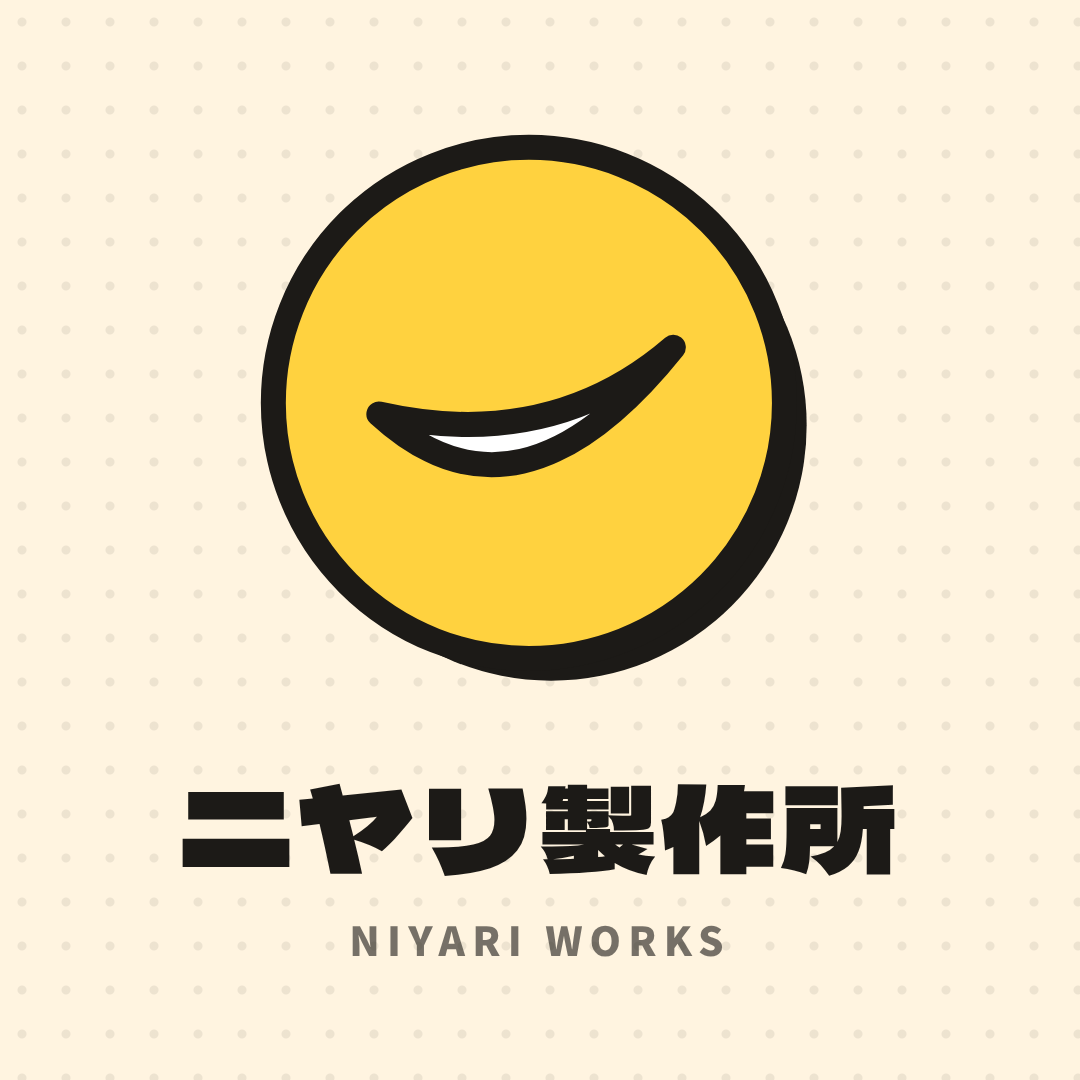
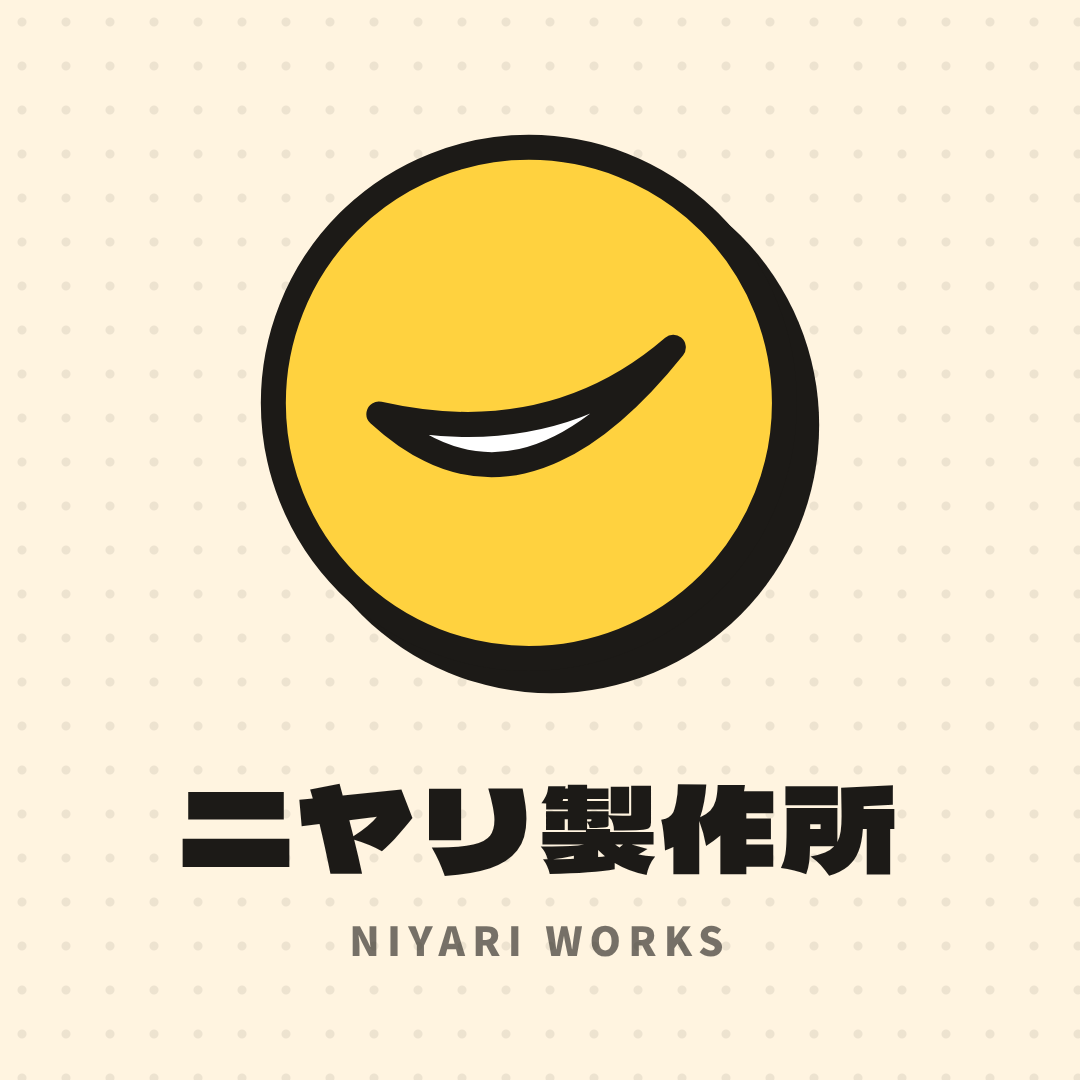
design: recolor WATTO tiles, add PATTO rough and brand sheet visual
Claude-Session: https://claude.ai/code/session_01H41cTqMxdqRgXVNK8y2DkT

diff --git a/design/brand/sheet-visual.html b/design/brand/sheet-visual.html
@@ -1,0 +1,194 @@
+<!doctype html>
+<html lang="ja">
+<head>
+<meta charset="utf-8">
+<title>WATTO ブランドシート用の見本（ラフ）</title>
+<!--
+  ブランドシート（05）に載せる見本 1 枚。design/brand/render.mjs で sheet-visual.png（幅 1080）にする。
+  - スマホで縦に流し見する前提で幅 540（2 倍で撮る）。いちばん小さい文字も 15px 以上にする
+  - マークの定義は icon-roughs.html の m-watto と同じ。直すときは両方そろえる
+  - 決まり（design/brand/review.md §1.2）：作り手は円・黄＋墨。トマトは SUKIMA だけ。プロフィール画像は影なし・文字なし。
+    X のヘッダーでは左下にプロフィール画像が重なるので、作り手のマークは右下に置く
+-->
+<link rel="preconnect" href="https://fonts.googleapis.com">
+<link rel="preconnect" href="https://fonts.gstatic.com" crossorigin>
+<link href="https://fonts.googleapis.com/css2?family=Dela+Gothic+One&family=Noto+Sans+JP:wght@700;900&display=block" rel="stylesheet">
+<style>
+:root {
+  --bg: #fff4e0; --ink: #1c1a17; --white: #ffffff; --muted: #5d564c;
+  --accent: #ff5b3a; --yellow: #ffd23f; --blue: #4a74f5; --pink: #ff9cc2; --teal: #2bb3a3; --purple: #9b7bf0;
+  --font-body: 'Noto Sans JP', sans-serif;
+  --font-pop: 'Dela Gothic One', 'Noto Sans JP', sans-serif;
+}
+* { box-sizing: border-box; }
+body { margin: 0; background: #ddd; font-family: var(--font-body); color: var(--ink); }
+svg { display: block; }
+.dots { background-color: var(--bg);
+  background-image: radial-gradient(circle, rgba(28,26,23,0.08) 1.5px, transparent 2px); background-size: 16px 16px; }
+
+#sheet { width: 540px; padding: 28px 24px 32px; }
+.title { font-weight: 900; font-size: 15px; letter-spacing: 0.08em; color: var(--muted); margin: 0 0 6px; }
+section { margin-top: 26px; }
+h2 { font-weight: 900; font-size: 20px; margin: 0 0 12px; display: flex; align-items: center; gap: 8px; }
+h2 .n { font-family: var(--font-pop); font-size: 15px; width: 28px; height: 28px; border-radius: 50%;
+  background: var(--ink); color: var(--yellow); display: inline-flex; align-items: center; justify-content: center; }
+.note { font-weight: 700; font-size: 15px; color: var(--muted); margin: 8px 0 0; line-height: 1.5; }
+.panel { background: var(--white); border: 2.5px solid var(--ink); border-radius: 16px; box-shadow: 4px 4px 0 var(--ink); }
+
+/* 1. マーク */
+.hero { display: flex; flex-direction: column; align-items: center; gap: 14px; padding: 8px 0 4px; }
+.hero svg { width: 220px; height: 220px; }
+.hero .name { font-family: var(--font-pop); font-size: 56px; line-height: 1; letter-spacing: 0.04em; }
+.hero .sub { font-weight: 900; font-size: 18px; letter-spacing: 0.2em; color: var(--muted); margin-top: -4px; }
+
+/* 2. 色・書体 */
+.swatches { display: grid; grid-template-columns: repeat(3, 1fr); gap: 10px; }
+.sw { border: 2.5px solid var(--ink); border-radius: 12px; overflow: hidden; background: var(--white); }
+.sw .chip { height: 56px; border-bottom: 2.5px solid var(--ink); }
+.sw .t { padding: 6px 8px 8px; font-weight: 900; font-size: 16px; line-height: 1.3; }
+.sw .t small { display: block; font-weight: 700; font-size: 15px; color: var(--muted); }
+.sub-row { display: grid; grid-template-columns: 1.6fr 1fr; gap: 10px; margin-top: 10px; }
+.accents { display: flex; gap: 6px; padding: 10px; }
+.accents span { flex: 1; height: 36px; border: 2.5px solid var(--ink); border-radius: 8px; }
+.ng { position: relative; }
+.ng .chip { background: var(--accent); }
+.ng .badge { position: absolute; top: 12px; left: 50%; transform: translateX(-50%); white-space: nowrap;
+  background: var(--white); border: 2.5px solid var(--ink); border-radius: 999px; padding: 2px 10px; font-weight: 900; font-size: 15px; }
+.fonts { margin-top: 12px; padding: 14px 16px; display: grid; gap: 12px; }
+.font-row { display: flex; align-items: baseline; justify-content: space-between; gap: 12px; }
+.font-row .s1 { font-family: var(--font-pop); font-size: 40px; line-height: 1; letter-spacing: 0.04em; }
+.font-row .s2 { font-weight: 900; font-size: 26px; letter-spacing: 0.18em; line-height: 1.2; }
+.font-row .l { font-weight: 700; font-size: 15px; color: var(--muted); text-align: right; line-height: 1.35; }
+
+/* 3. SUKIMA と並べる（動画の締めのカードの想定） */
+.endcard { border: 2.5px solid var(--ink); border-radius: 16px; padding: 30px 16px 22px;
+  display: flex; flex-direction: column; align-items: center; gap: 26px; }
+.logo { display: inline-block; font-family: var(--font-pop); font-size: 50px; line-height: 1; letter-spacing: 0.06em;
+  color: #fff; background: var(--accent); padding: 12px 22px 16px; border: 4px solid var(--ink); border-radius: 22px;
+  transform: rotate(-3deg); box-shadow: 6px 6px 0 var(--ink); -webkit-text-stroke: 2.5px var(--ink); paint-order: stroke fill; white-space: nowrap; }
+.logo .slit { display: inline-block; width: 13px; height: 1.6em; margin: -0.4em 4px -0.4em 5px; vertical-align: middle;
+  background: var(--bg); border-left: 3.5px solid var(--ink); border-right: 3.5px solid var(--ink); transform: rotate(14deg); }
+.by { display: flex; align-items: center; gap: 10px; }
+.by .k { font-weight: 900; font-size: 16px; color: var(--muted); }
+.by svg { width: 48px; height: 48px; }
+.by .nm { font-family: var(--font-pop); font-size: 26px; letter-spacing: 0.04em; }
+
+/* 4. プロフィール画像 */
+.avatars { display: grid; grid-template-columns: 1fr 1fr; gap: 10px; }
+.av { border-radius: 14px; padding: 14px 10px; display: flex; align-items: center; justify-content: center; gap: 10px; min-width: 0; border: 2.5px solid var(--ink); }
+.av.light { background: var(--white); }
+.av.dark { background: #000; }
+.av .c { border-radius: 50%; overflow: hidden; flex: none; }
+.av .c svg { width: 100%; height: 100%; }
+.av-labels { display: grid; grid-template-columns: 1fr 1fr; gap: 10px; margin-top: 6px; text-align: center; font-weight: 700; font-size: 15px; color: var(--muted); }
+
+/* 5. X のヘッダー（1500×500 を 492×164 に縮小） */
+.xprof { border: 2.5px solid var(--ink); border-radius: 16px; overflow: hidden; background: var(--white); }
+.header { width: 100%; aspect-ratio: 3 / 1; position: relative; overflow: hidden; border-bottom: 2px solid #ddd; }
+.header .center { position: absolute; left: 50%; top: 44%; transform: translate(-50%, -50%);
+  display: flex; flex-direction: column; align-items: center; gap: 12px; }
+.header .logo { font-size: 30px; padding: 7px 13px 9px; border-width: 3px; border-radius: 14px; box-shadow: 4px 4px 0 var(--ink); -webkit-text-stroke: 1.6px var(--ink); }
+.header .logo .slit { width: 8px; border-left-width: 2.5px; border-right-width: 2.5px; margin: -0.4em 3px -0.4em 3px; }
+.header .copy { font-weight: 900; font-size: 15px; white-space: nowrap; }
+.header .corner { position: absolute; right: 12px; bottom: 10px; display: flex; align-items: center; gap: 6px; }
+.header .corner svg { width: 30px; height: 30px; }
+.header .corner span { font-family: var(--font-pop); font-size: 15px; letter-spacing: 0.04em; }
+.xbody { position: relative; height: 92px; padding: 0 16px; }
+.xbody .pfp { position: absolute; left: 16px; top: -46px; width: 96px; height: 96px; border-radius: 50%; border: 4px solid var(--white); overflow: hidden; background: var(--white); }
+.xbody .pfp svg { width: 100%; height: 100%; }
+.xbody .who { position: absolute; left: 124px; top: 12px; line-height: 1.35; }
+.xbody .who b { font-size: 18px; font-weight: 900; }
+.xbody .who span { display: block; font-size: 15px; font-weight: 700; color: var(--muted); }
+</style>
+</head>
+<body>
+
+<svg width="0" height="0" style="position:absolute">
+  <defs>
+    <!-- icon-roughs.html の m-watto と同じ（札はトマトではなく差し色 4 色） -->
+    <g id="m-watto">
+      <circle cx="100" cy="100" r="92" fill="var(--yellow)" stroke="var(--ink)" stroke-width="9"/>
+      <g stroke="var(--ink)" stroke-width="9" stroke-linecap="round">
+        <line x1="134" y1="66" x2="152" y2="48"/><line x1="134" y1="134" x2="152" y2="152"/>
+        <line x1="66" y1="134" x2="48" y2="152"/><line x1="66" y1="66" x2="48" y2="48"/>
+      </g>
+      <circle cx="100" cy="100" r="30" fill="var(--white)" stroke="var(--ink)" stroke-width="9"/>
+      <g stroke="var(--ink)" stroke-width="8" stroke-linejoin="round">
+        <rect x="88" y="26" width="24" height="24" rx="5" fill="var(--blue)"/><rect x="150" y="88" width="24" height="24" rx="5" fill="var(--pink)"/>
+        <rect x="88" y="150" width="24" height="24" rx="5" fill="var(--teal)"/><rect x="26" y="88" width="24" height="24" rx="5" fill="var(--purple)"/>
+      </g>
+    </g>
+  </defs>
+</svg>
+
+<div id="sheet" class="dots">
+  <p class="title">WATTO ブランド見本（ラフ・仕上げ前）</p>
+
+  <section style="margin-top:8px">
+    <h2><span class="n">1</span>マーク</h2>
+    <div class="hero">
+      <!-- 画面・カードでは墨のずらした影を付ける（影の半径は線の外側 96.5 に合わせる） -->
+      <svg viewBox="-4 -4 216 216"><circle cx="108" cy="108" r="96.5" fill="var(--ink)"/><use href="#m-watto"/></svg>
+      <div class="name">WATTO</div>
+      <div class="sub">ワット</div>
+    </div>
+    <p class="note">まんなかの「場」を 4 人が囲み、光が出る。円で、傾けない。目や手足は付けない。</p>
+  </section>
+
+  <section>
+    <h2><span class="n">2</span>色と書体</h2>
+    <div class="swatches">
+      <div class="sw"><div class="chip" style="background:var(--yellow)"></div><div class="t">黄（主）<small>#ffd23f</small></div></div>
+      <div class="sw"><div class="chip" style="background:var(--ink)"></div><div class="t">墨（主）<small>#1c1a17</small></div></div>
+      <div class="sw"><div class="chip dots"></div><div class="t">生成り（地）<small>#fff4e0</small></div></div>
+    </div>
+    <div class="sub-row">
+      <div class="sw"><div class="accents"><span style="background:var(--blue)"></span><span style="background:var(--pink)"></span><span style="background:var(--teal)"></span><span style="background:var(--purple)"></span></div><div class="t" style="border-top:2.5px solid var(--ink)">差し色<small>マークの中の小物だけ</small></div></div>
+      <div class="sw ng"><div class="chip"></div><span class="badge">使わない</span><div class="t">トマト<small>SUKIMA だけ</small></div></div>
+    </div>
+    <div class="panel fonts">
+      <div class="font-row"><span class="s1">WATTO</span><span class="l">Dela Gothic One<br>名前・見出し</span></div>
+      <div class="font-row"><span class="s2">ワット</span><span class="l">Noto Sans JP 900<br>読み・本文（字間を空ける）</span></div>
+    </div>
+  </section>
+
+  <section>
+    <h2><span class="n">3</span>SUKIMA と並べたとき</h2>
+    <div class="endcard dots" style="background-color:var(--bg)">
+      <span class="logo">SUKI<span class="slit"></span>MA</span>
+      <div class="by"><span class="k">つくった人</span><svg viewBox="0 0 200 200"><use href="#m-watto"/></svg><span class="nm">WATTO</span></div>
+    </div>
+    <p class="note">作品はトマトの傾いた札、作り手は黄色い丸。動画の締めでは作品を大きく、作り手は下に小さく。</p>
+  </section>
+
+  <section>
+    <h2><span class="n">4</span>SNS のプロフィール画像</h2>
+    <div class="avatars">
+      <div class="av light"><div class="c" style="width:100px;height:100px"><svg viewBox="4 4 192 192"><use href="#m-watto"/></svg></div><div class="c" style="width:48px;height:48px"><svg viewBox="4 4 192 192"><use href="#m-watto"/></svg></div><div class="c" style="width:32px;height:32px"><svg viewBox="4 4 192 192"><use href="#m-watto"/></svg></div></div>
+      <div class="av dark"><div class="c" style="width:100px;height:100px"><svg viewBox="4 4 192 192"><use href="#m-watto"/></svg></div><div class="c" style="width:48px;height:48px"><svg viewBox="4 4 192 192"><use href="#m-watto"/></svg></div><div class="c" style="width:32px;height:32px"><svg viewBox="4 4 192 192"><use href="#m-watto"/></svg></div></div>
+    </div>
+    <div class="av-labels"><span>明るい画面</span><span>暗い画面</span></div>
+    <p class="note">円で切り抜く前提。影なし・文字なし。</p>
+  </section>
+
+  <section>
+    <h2><span class="n">5</span>X のヘッダー（縮小）</h2>
+    <div class="xprof">
+      <div class="header dots">
+        <div class="center">
+          <span class="logo">SUKI<span class="slit"></span>MA</span>
+          <span class="copy">スキマ時間に みんなでサクッと</span>
+        </div>
+        <div class="corner"><svg viewBox="0 0 200 200"><use href="#m-watto"/></svg><span>WATTO</span></div>
+      </div>
+      <div class="xbody">
+        <div class="pfp"><svg viewBox="4 4 192 192"><use href="#m-watto"/></svg></div>
+        <div class="who"><b>SUKIMA｜WATTO</b><span>@watto_xx（未確定）</span></div>
+      </div>
+    </div>
+    <p class="note">左下はプロフィール画像が重なるので、マークは右下に小さく置く。</p>
+  </section>
+</div>
+
+</body>
+</html>

diff --git a/design/brand/icon-roughs.html b/design/brand/icon-roughs.html
@@ -18,7 +18,7 @@
 <style>
 :root {
   --bg: #fff4e0; --ink: #1c1a17; --white: #ffffff;
-  --accent: #ff5b3a; --yellow: #ffd23f; --blue: #4a74f5; --pink: #ff9cc2; --teal: #2bb3a3;
+  --accent: #ff5b3a; --yellow: #ffd23f; --blue: #4a74f5; --pink: #ff9cc2; --teal: #2bb3a3; --purple: #9b7bf0;
   --dark-bg: #1d1a17;
   --font-body: 'Noto Sans JP', sans-serif;
   --font-pop: 'Dela Gothic One', 'Noto Sans JP', sans-serif;
@@ -79,9 +79,22 @@ svg { display: block; }
         <line x1="66" y1="134" x2="48" y2="152"/><line x1="66" y1="66" x2="48" y2="48"/>
       </g>
       <circle cx="100" cy="100" r="30" fill="var(--white)" stroke="var(--ink)" stroke-width="9"/>
-      <g fill="var(--accent)" stroke="var(--ink)" stroke-width="8" stroke-linejoin="round">
-        <rect x="88" y="26" width="24" height="24" rx="5"/><rect x="150" y="88" width="24" height="24" rx="5"/>
-        <rect x="88" y="150" width="24" height="24" rx="5"/><rect x="26" y="88" width="24" height="24" rx="5"/>
+      <!-- 札は 4 人それぞれ違う差し色にする（トマトは SUKIMA の色なので作り手では使わない。03 N-5）。
+           色が違うことで「いろんな人が集まる」も伝わる -->
+      <g stroke="var(--ink)" stroke-width="8" stroke-linejoin="round">
+        <rect x="88" y="26" width="24" height="24" rx="5" fill="var(--blue)"/><rect x="150" y="88" width="24" height="24" rx="5" fill="var(--pink)"/>
+        <rect x="88" y="150" width="24" height="24" rx="5" fill="var(--teal)"/><rect x="26" y="88" width="24" height="24" rx="5" fill="var(--purple)"/>
+      </g>
+    </g>
+    <!-- 4. PATTO（パッと）：真ん中で白い光が弾け、色の粒が飛ぶ。WATTO（囲む輪）と違い「中心から外へ」の形。
+         粒は 3 つで大きさも位置もそろえない（4 つ対称だと WATTO・太陽に寄るため）。切り替えに備えたラフ -->
+    <g id="m-patto">
+      <circle cx="100" cy="100" r="92" fill="var(--yellow)" stroke="var(--ink)" stroke-width="9"/>
+      <polygon points="100.0,40.0 112.6,69.5 142.4,57.6 130.5,87.4 160.0,100.0 130.5,112.6 142.4,142.4 112.6,130.5 100.0,160.0 87.4,130.5 57.6,142.4 69.5,112.6 40.0,100.0 69.5,87.4 57.6,57.6 87.4,69.5" fill="var(--white)" stroke="var(--ink)" stroke-width="9" stroke-linejoin="round"/>
+      <g stroke="var(--ink)" stroke-width="7">
+        <circle cx="164.7" cy="73.2" r="10" fill="var(--blue)"/>
+        <circle cx="73.2" cy="164.7" r="8" fill="var(--pink)"/>
+        <circle cx="37.2" cy="74.0" r="6.5" fill="var(--teal)"/>
       </g>
     </g>
     <!-- 3. わちゃ：重なった吹き出し 3 つ。「みんなが同時にしゃべっている」様子 -->
@@ -99,19 +112,24 @@ svg { display: block; }
 
 <div class="cards">
   <div class="card" id="card-niyari">
-    <svg class="mark" viewBox="-4 -4 216 216"><circle cx="108" cy="108" r="92" fill="var(--ink)"/><use href="#m-niyari"/></svg>
+    <svg class="mark" viewBox="-4 -4 216 216"><circle cx="108" cy="108" r="96.5" fill="var(--ink)"/><use href="#m-niyari"/></svg>
     <div class="name">ニヤリ製作所</div>
     <div class="sub">NIYARI WORKS</div>
   </div>
   <div class="card" id="card-watto">
-    <svg class="mark" viewBox="-4 -4 216 216"><circle cx="108" cy="108" r="92" fill="var(--ink)"/><use href="#m-watto"/></svg>
+    <svg class="mark" viewBox="-4 -4 216 216"><circle cx="108" cy="108" r="96.5" fill="var(--ink)"/><use href="#m-watto"/></svg>
     <div class="name">WATTO</div>
     <div class="sub">ワット</div>
   </div>
   <div class="card" id="card-wacha">
-    <svg class="mark" viewBox="-4 -4 216 216"><circle cx="108" cy="108" r="92" fill="var(--ink)"/><use href="#m-wacha"/></svg>
+    <svg class="mark" viewBox="-4 -4 216 216"><circle cx="108" cy="108" r="96.5" fill="var(--ink)"/><use href="#m-wacha"/></svg>
     <div class="name">わちゃ</div>
     <div class="sub">WACHA</div>
+  </div>
+  <div class="card" id="card-patto">
+    <svg class="mark" viewBox="-4 -4 216 216"><circle cx="108" cy="108" r="96.5" fill="var(--ink)"/><use href="#m-patto"/></svg>
+    <div class="name">PATTO</div>
+    <div class="sub">パッと</div>
   </div>
 </div>
 
@@ -120,6 +138,7 @@ svg { display: block; }
   <div class="head"><span></span><span>ライトの画面</span><span>ダークの画面</span></div>
   <div class="row" data-id="niyari"><span class="label">ニヤリ製作所</span></div>
   <div class="row" data-id="watto"><span class="label">WATTO</span></div>
+  <div class="row" data-id="patto"><span class="label">PATTO</span></div>
   <div class="row" data-id="wacha"><span class="label">わちゃ</span></div>
 
   <h2 style="margin-top:18px">SUKIMA と並べたとき（動画の締め・ヘッダーの想定）</h2>
@@ -127,6 +146,7 @@ svg { display: block; }
     <span class="logo">SUKI<span class="slit"></span>MA</span>
     <span class="by"><svg viewBox="0 0 200 200"><use href="#m-niyari"/></svg>ニヤリ製作所</span>
     <span class="by"><svg viewBox="0 0 200 200"><use href="#m-watto"/></svg>WATTO</span>
+    <span class="by"><svg viewBox="0 0 200 200"><use href="#m-patto"/></svg>PATTO</span>
     <span class="by"><svg viewBox="0 0 200 200"><use href="#m-wacha"/></svg>わちゃ</span>
   </div>
 </div>
